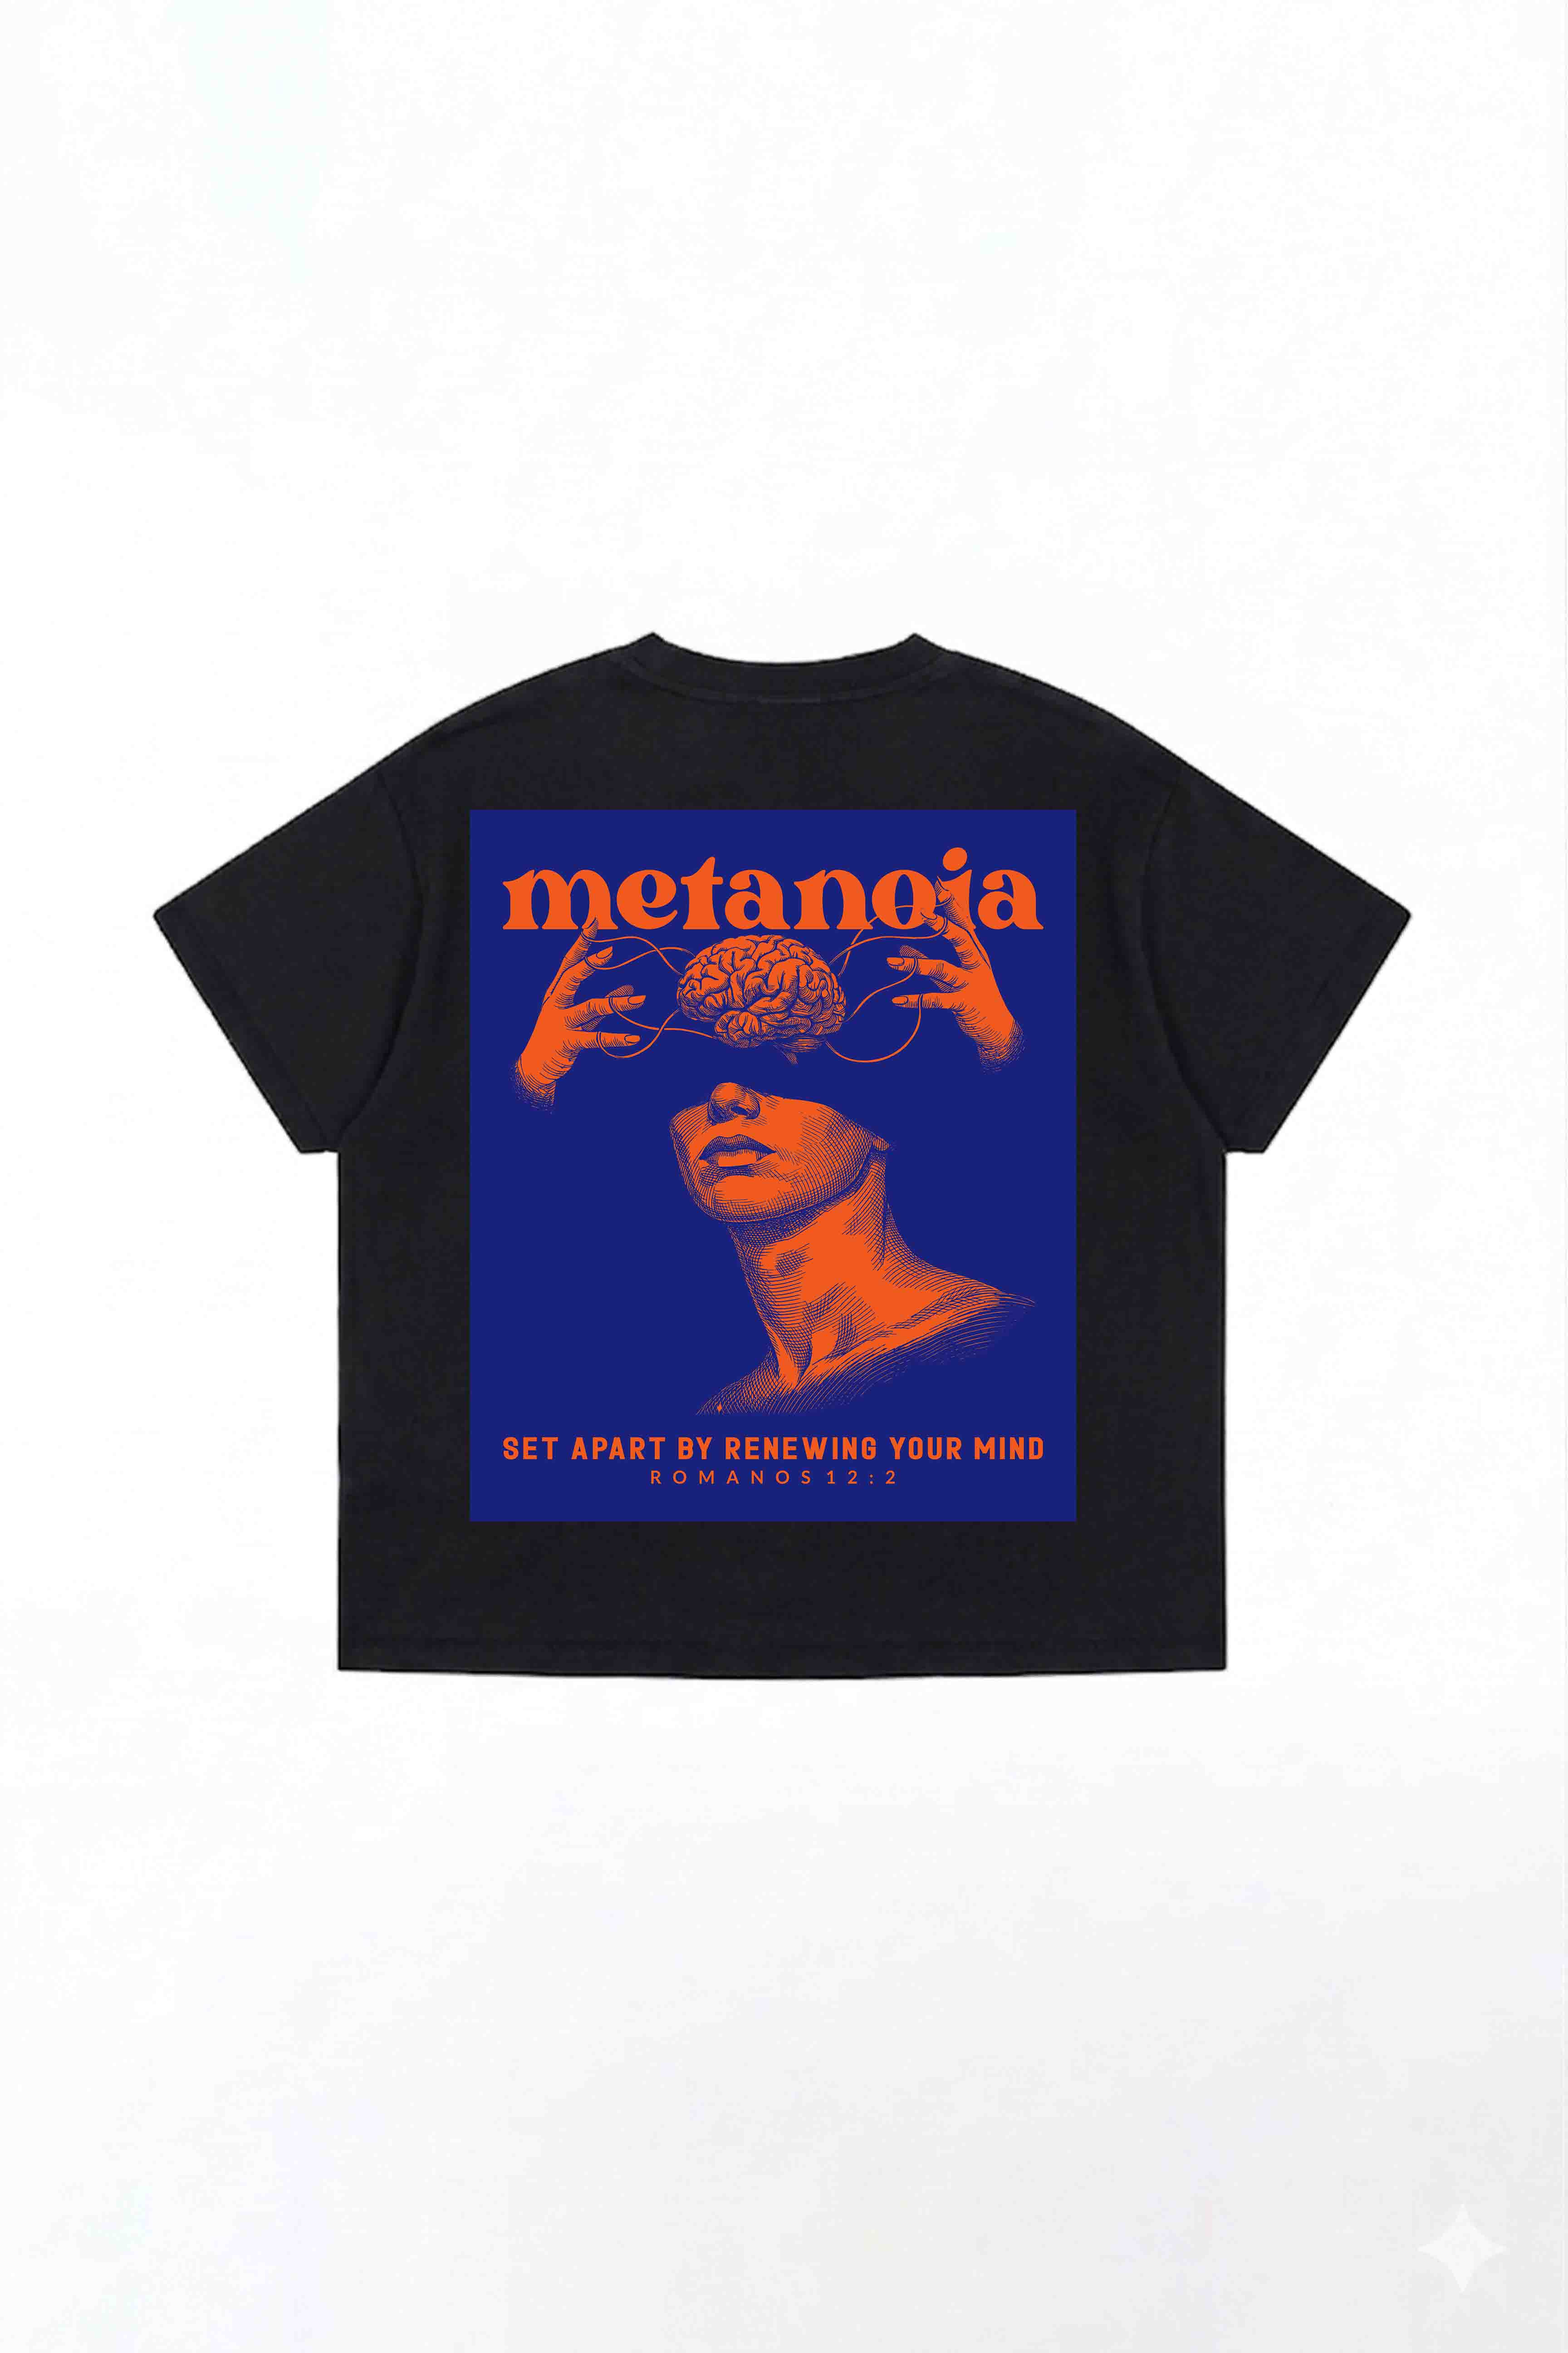
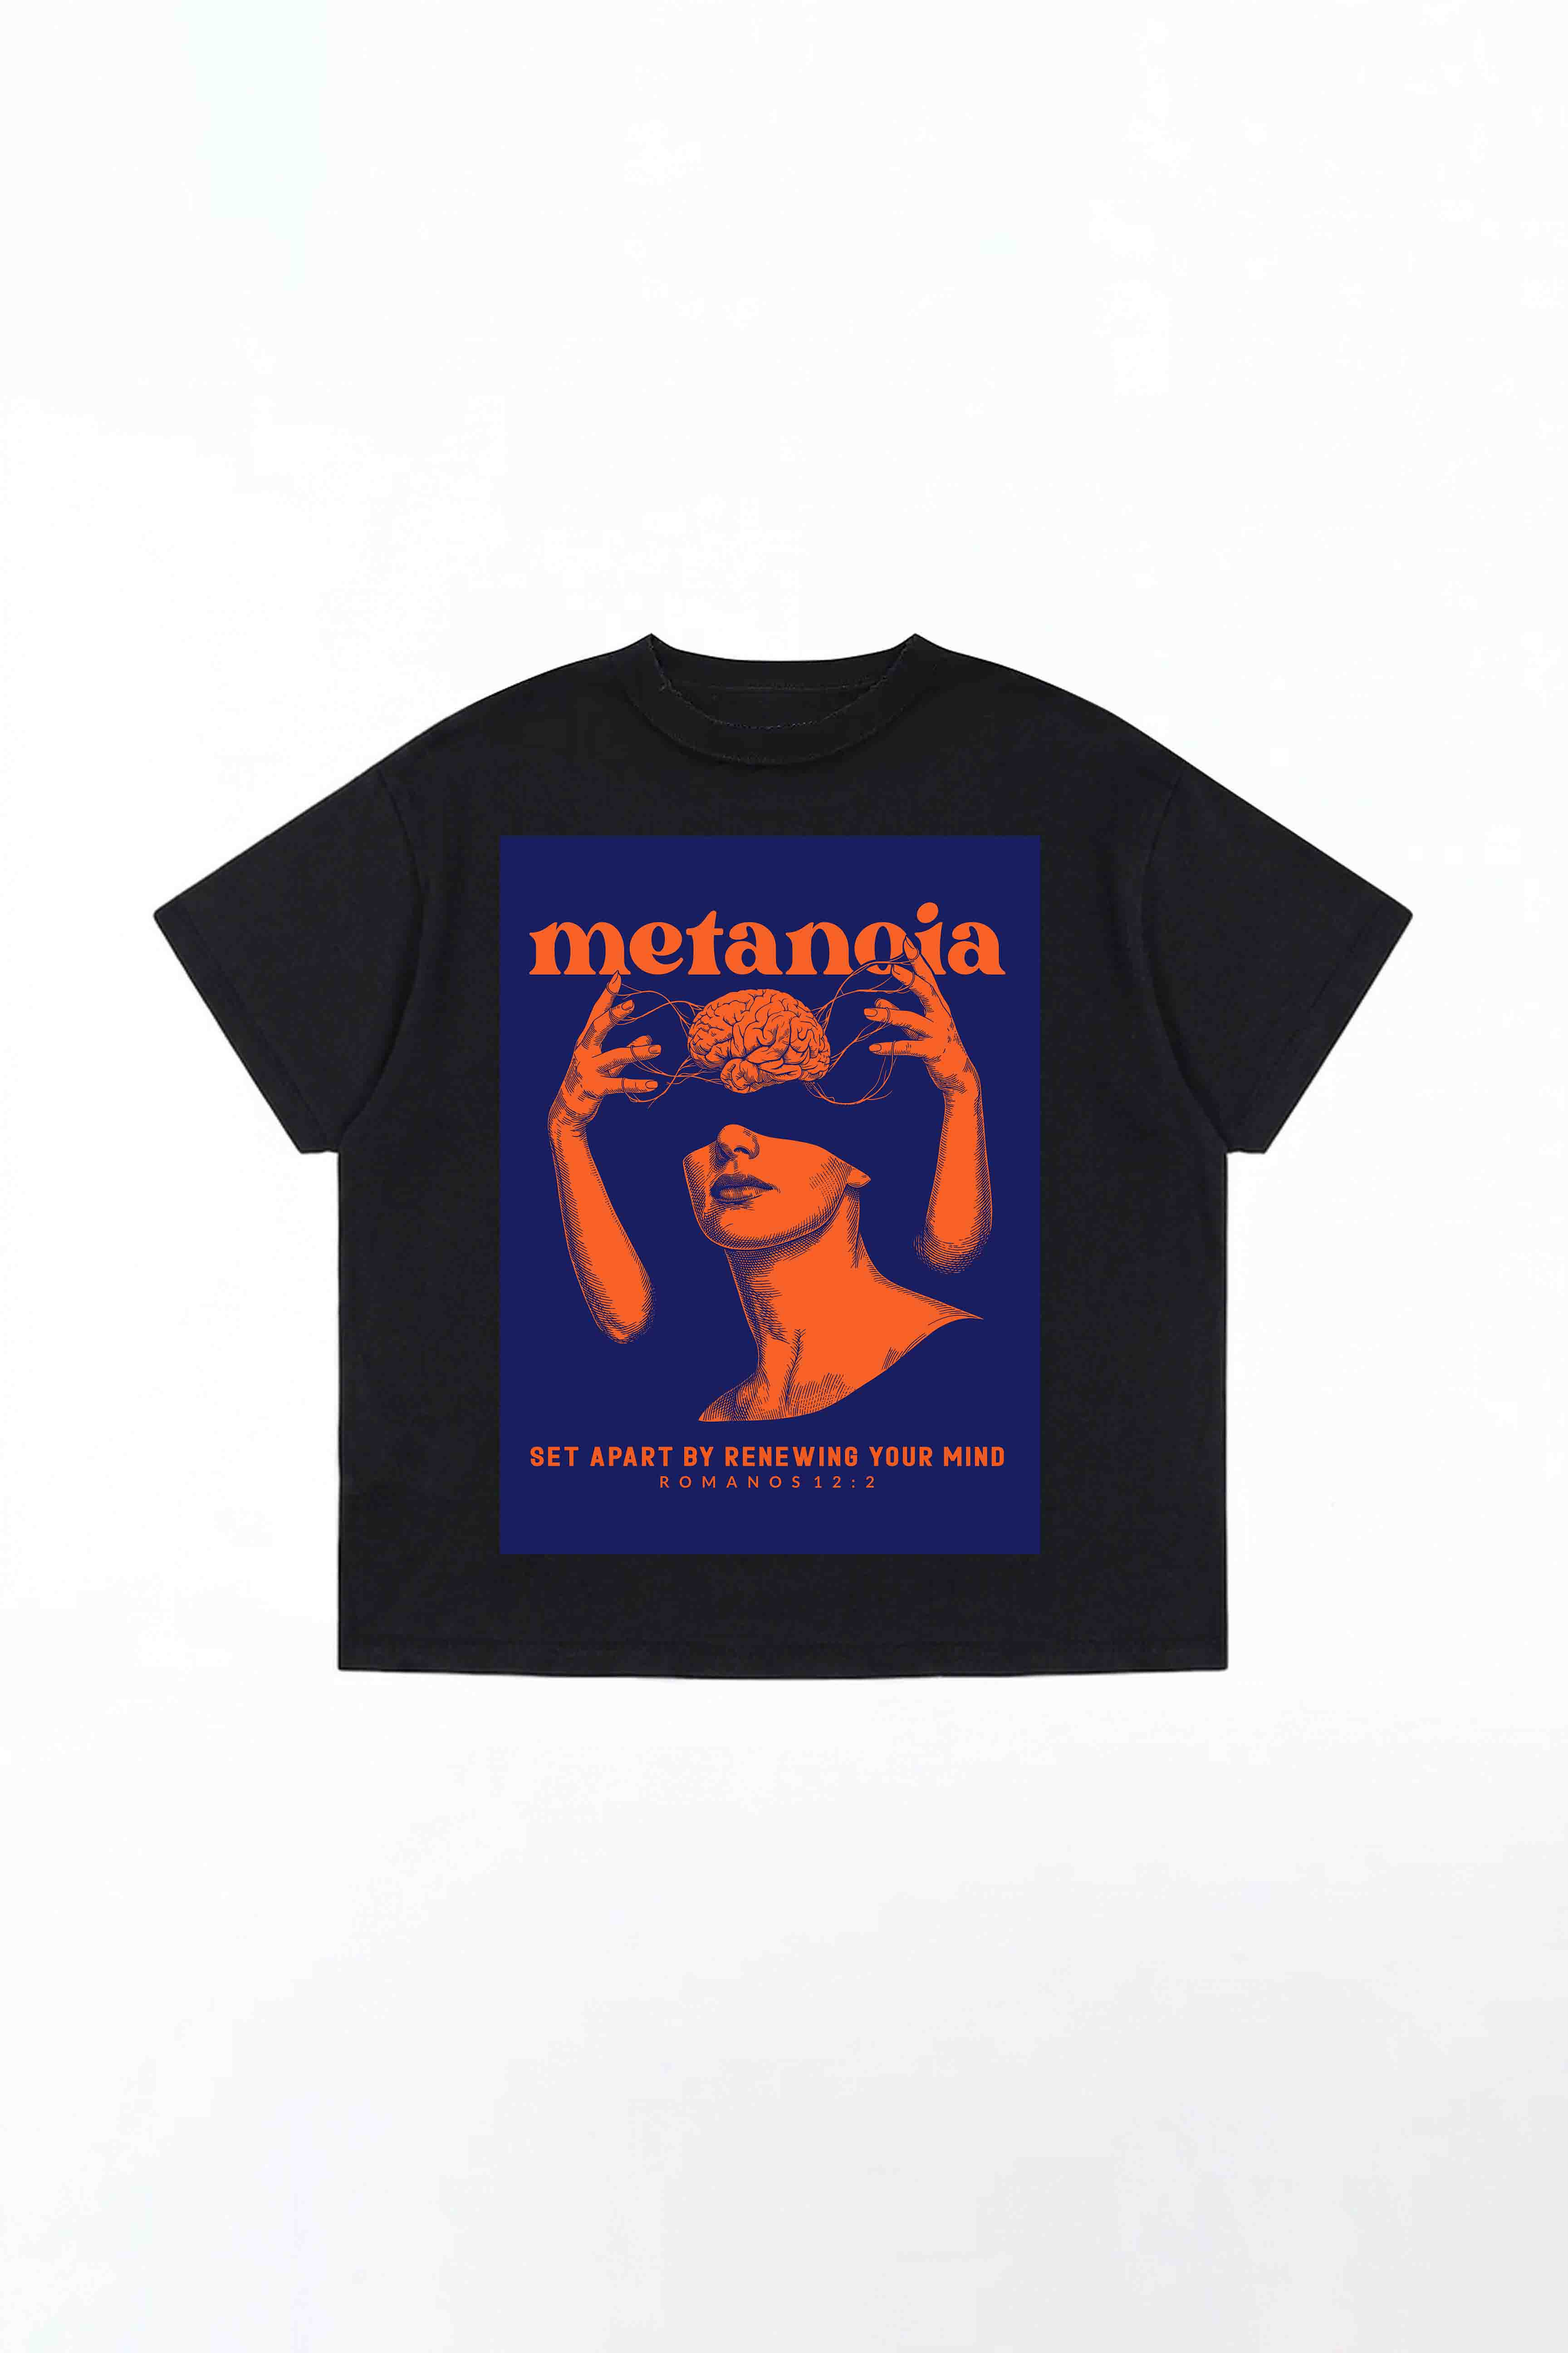
update resonance section

Changed region(s): [[0.2812, 0.3438, 0.6875, 0.6875]]

diff --git a/index-old.html b/index-old.html
@@ -391,154 +391,6 @@
     margin-left: 12px;
   }
 
-  /* ─── VIDEOS PAGE ─── */
-  .videos-header {
-    padding: 60px 40px;
-    background: linear-gradient(135deg, rgba(204, 34, 0, 0.15) 0%, rgba(10, 10, 10, 0.8) 100%);
-    border-bottom: 1px solid #1f1f1f;
-    text-align: center;
-  }
-
-  .videos-header h1 {
-    font-family: var(--font-display);
-    font-size: clamp(48px, 6vw, 72px);
-    margin-bottom: 15px;
-    letter-spacing: 0.04em;
-  }
-
-  .videos-header p {
-    font-family: var(--font-mono);
-    font-size: 12px;
-    letter-spacing: 0.12em;
-    text-transform: uppercase;
-    color: var(--mid);
-    max-width: 600px;
-    margin: 0 auto;
-  }
-
-  .videos-grid {
-    display: grid;
-    grid-template-columns: repeat(auto-fit, minmax(320px, 1fr));
-    gap: 28px;
-    padding: 80px 40px;
-  }
-
-  .video-card {
-    position: relative;
-    background: #1a1a1a;
-    border: 1px solid #2a2a2a;
-    border-radius: 8px;
-    overflow: hidden;
-    transition: all 0.3s cubic-bezier(0.34, 1.56, 0.64, 1);
-  }
-
-  .video-card:hover {
-    border-color: var(--red);
-    transform: translateY(-8px);
-    box-shadow: 0 20px 40px rgba(204, 34, 0, 0.2);
-  }
-
-  .video-thumbnail {
-    position: relative;
-    width: 100%;
-    aspect-ratio: 16/9;
-    overflow: hidden;
-    background: #0a0a0a;
-  }
-
-  .video-thumbnail img {
-    width: 100%;
-    height: 100%;
-    object-fit: cover;
-    transition: transform 0.3s;
-  }
-
-  .video-card:hover .video-thumbnail img {
-    transform: scale(1.05);
-  }
-
-  .play-overlay {
-    position: absolute;
-    inset: 0;
-    background: rgba(10, 10, 10, 0.5);
-    display: flex;
-    align-items: center;
-    justify-content: center;
-    opacity: 0;
-    transition: opacity 0.3s;
-  }
-
-  .video-card:hover .play-overlay {
-    opacity: 1;
-  }
-
-  .play-icon {
-    width: 70px;
-    height: 70px;
-    background: var(--red);
-    border-radius: 50%;
-    display: flex;
-    align-items: center;
-    justify-content: center;
-    font-size: 28px;
-    color: white;
-    transition: transform 0.2s;
-  }
-
-  .video-card:hover .play-icon {
-    transform: scale(1.1);
-  }
-
-  .video-info {
-    padding: 24px;
-  }
-
-  .video-artist {
-    font-family: var(--font-mono);
-    font-size: 10px;
-    letter-spacing: 0.15em;
-    text-transform: uppercase;
-    color: var(--red);
-    margin-bottom: 8px;
-  }
-
-  .video-title {
-    font-family: var(--font-display);
-    font-size: 22px;
-    letter-spacing: 0.04em;
-    margin-bottom: 12px;
-    color: var(--white);
-  }
-
-  .video-product {
-    font-family: var(--font-mono);
-    font-size: 11px;
-    color: var(--mid);
-    margin-bottom: 16px;
-    text-transform: uppercase;
-    letter-spacing: 0.08em;
-  }
-
-  .video-btn {
-    display: inline-block;
-    font-family: var(--font-mono);
-    font-size: 10px;
-    letter-spacing: 0.12em;
-    text-transform: uppercase;
-    padding: 11px 20px;
-    border: 1px solid var(--red);
-    color: var(--red);
-    background: transparent;
-    cursor: pointer;
-    transition: all 0.2s;
-    border-radius: 3px;
-  }
-
-  .video-btn:hover {
-    background: var(--red);
-    color: var(--white);
-  }
-
   /* ─── ABOUT ─── */
   .about-hero {
     height: 60vh;
@@ -941,7 +793,6 @@
     <li><a onclick="showPage('home'); closeMenu()" id="nav-home" class="active">Home</a></li>
     <li><a onclick="showPage('shop'); closeMenu()" id="nav-shop">Goods</a></li>
     <li><a onclick="showPage('lookbook'); closeMenu()" id="nav-lookbook">Lookbook</a></li>
-    <li><a onclick="showPage('videos'); closeMenu()" id="nav-videos">Resonances</a></li>
     <li><a onclick="showPage('about'); closeMenu()" id="nav-about">About</a></li>
   </ul>
   <div class="nav-icons">
@@ -1007,7 +858,7 @@
     <div class="featured-grid">
       <div class="featured-item tall" onclick="showPage('shop')">
         <img src="img/pexels-photo-2220316.jpg?auto=compress&cs=tinysrgb&w=800" alt="Drop 01">
-        <div class="featured-item-info"><span>Drop 001</span><p>Metanoia</p></div>
+        <div class="featured-item-info"><span>Drop 001</span><p>Void Tee</p></div>
       </div>
       <div class="featured-item" onclick="showPage('shop')">
         <img src="img/pexels-photo-1040945.jpg?auto=compress&cs=tinysrgb&w=800" alt="Drop 02">
@@ -1329,71 +1180,6 @@ onclick="openModal('img/shop/redeemed-detail.jpg','Redeemed Tee','Rp 299.000','h
 </div><!-- /lookbook -->
 
 
-<!-- ════════════════ VIDEOS PAGE ════════════════ -->
-<div class="page" id="page-videos">
-
-  <div class="videos-header">
-    <h1>Echo Stories</h1>
-    <p>Each design carries its own story — Watch the jingle behind every piece</p>
-  </div>
-
-  <div class="videos-grid">
-    <!-- Video Card 1 -->
-    <div class="video-card">
-      <div class="video-thumbnail">
-        <img src="img/resonance/metanoia-cover.jpg?auto=compress&cs=tinysrgb&w=600" alt="Void Tee">
-        <div class="play-overlay"
-            onclick="openVideoModal(
-            'https://www.youtube.com/embed/94hZ6ZQoNfU?autoplay=1',
-            'Void Tee',
-            'Rp 299.000',
-            'img/pexels-photo-2220316.jpg'
-          )">
-          <div class="play-icon">
-            <i class="fas fa-play"></i>
-          </div>
-        </div>
-      </div>
-      <div class="video-info">
-        <div class="video-artist">Whizz Collective</div>
-        <h3 class="video-title">Metanoia</h3>
-        <p class="video-product">Rp 150.000</p>
-        <button class="video-btn" onclick="openVideoModal('https://www.youtube.com/embed/94hZ6ZQoNfU?autoplay=1', 'Metanoia', 'Rp 299.000', 'img/shop/metanoia-detail.jpg')">Watch</button>
-        <button class="video-btn" style="margin-left: 8px; border-color:var(--white); color:var(--white);" onclick="openModal('img/shop/metanoia-detail.jpg', 'Metanoia', 'Rp 299.000', 'https://wa.me/123')">Shop</button>
-      </div>
-    </div>
-  </div>
-
-  <footer>
-    <div class="footer-brand">
-      <a class="logo" onclick="showPage('home')"><img src="img/whz.png" alt="WHIZZ Logo"></a>
-      <p>Clothing untuk mereka yang hidup di frekuensi berbeda.</p>
-    </div>
-    <div class="footer-col">
-      <h4>Explore</h4>
-      <a onclick="showPage('home')">Home</a>
-      <a onclick="showPage('shop')">Goods</a>
-      <a onclick="showPage('lookbook')">Lookbook</a>
-    </div>
-    <div class="footer-col">
-      <h4>Info</h4>
-      <a href="#">Size Guide</a>
-      <a href="#">Shipping</a>
-    </div>
-    <div class="footer-col">
-      <h4>Social</h4>
-      <a href="https://instagram.com/whizz.clothing">Instagram</a>
-      <a href="https://wa.me/123">WhatsApp</a>
-    </div>
-  </footer>
-  <div class="footer-bottom">
-    <p>© 2025 Whizz Clothing. All rights reserved.</p>
-    <p>Jakarta, Indonesia</p>
-  </div>
-
-</div><!-- /videos -->
-
-
 <!-- ════════════════ ABOUT PAGE ════════════════ -->
 <div class="page" id="page-about">
 
@@ -1593,55 +1379,6 @@ window.onclick = function(e) {
 </script>
 
 <script>
-// Video Modal
-function openVideoModal(youtubeUrl, productName, price, productImg) {
-  const videoId = extractYoutubeId(youtubeUrl);
-  const iframeUrl = `https://www.youtube.com/embed/${videoId}`;
-  
-  document.getElementById("videoIframe").src = iframeUrl;
-  document.getElementById("videoProductName").innerText = productName;
-  document.getElementById("videoProductPrice").innerText = price;
-  document.getElementById("videoProductImg").src = productImg;
-  document.getElementById("videoShopBtn").dataset.img = productImg;
-  document.getElementById("videoShopBtn").dataset.name = productName;
-  document.getElementById("videoShopBtn").dataset.price = price;
-  
-  document.body.style.overflow = "hidden";
-  document.getElementById("videoModal").classList.add("show");
-}
-
-function closeVideoModal() {
-  document.getElementById("videoIframe").src = "";
-  document.body.style.overflow = "";
-  document.getElementById("videoModal").classList.remove("show");
-}
-
-function extractYoutubeId(url) {
-  if (url.includes('embed/')) {
-    return url.split('embed/')[1];
-  }
-  return url;
-}
-
-function shopFromVideo() {
-  const btn = document.getElementById("videoShopBtn");
-  const img = btn.dataset.img;
-  const name = btn.dataset.name;
-  const price = btn.dataset.price;
-  
-  openModal(img, name, price, 'https://wa.me/123');
-  closeVideoModal();
-}
-
-window.onclick = function(e) {
-  const videoModal = document.getElementById("videoModal");
-  if (e.target === videoModal) {
-    closeVideoModal();
-  }
-}
-</script>
-
-<script>
 function toggleMenu() {
   document.querySelector('.nav-links').classList.toggle('show');
 }
@@ -1665,35 +1402,6 @@ function closeMenu() {
 }
 </script>
 
-
-<!-- Video Modal -->
-<div id="videoModal" class="modal">
-  <div class="modal-content" style="max-width:900px">
-    <span class="close-btn" onclick="closeVideoModal()">&times;</span>
-    
-    <div style="position:relative; width:100%; padding-bottom:56.25%; margin-bottom:20px; overflow:hidden; border-radius:8px;">
-      <iframe 
-        id="videoIframe"
-        style="position:absolute; top:0; left:0; width:100%; height:100%; border:none; border-radius:8px;"
-        allow="accelerometer; autoplay; clipboard-write; encrypted-media; gyroscope; picture-in-picture" 
-        allowfullscreen="">
-      </iframe>
-    </div>
-
-    <div style="background:#1a1a1a; padding:24px; border-radius:8px; margin-bottom:20px;">
-      <div style="display:flex; gap:20px;">
-        <img id="videoProductImg" src="" style="width:100px; height:100px; object-fit:cover; border-radius:6px;">
-        <div style="flex:1;">
-          <h3 id="videoProductName" style="font-family:var(--font-display); font-size:20px; margin-bottom:4px;"></h3>
-          <p id="videoProductPrice" style="font-family:var(--font-mono); font-size:14px; color:var(--mid); margin-bottom:16px;"></p>
-          <button id="videoShopBtn" class="buy-btn" onclick="shopFromVideo()" style="width:100%;">
-            <i class="fa-brands fa-whatsapp"></i> Shop Now via WhatsApp
-          </button>
-        </div>
-      </div>
-    </div>
-  </div>
-</div>
 
 <!-- popup shop -->
 <div id="productModal" class="modal">
